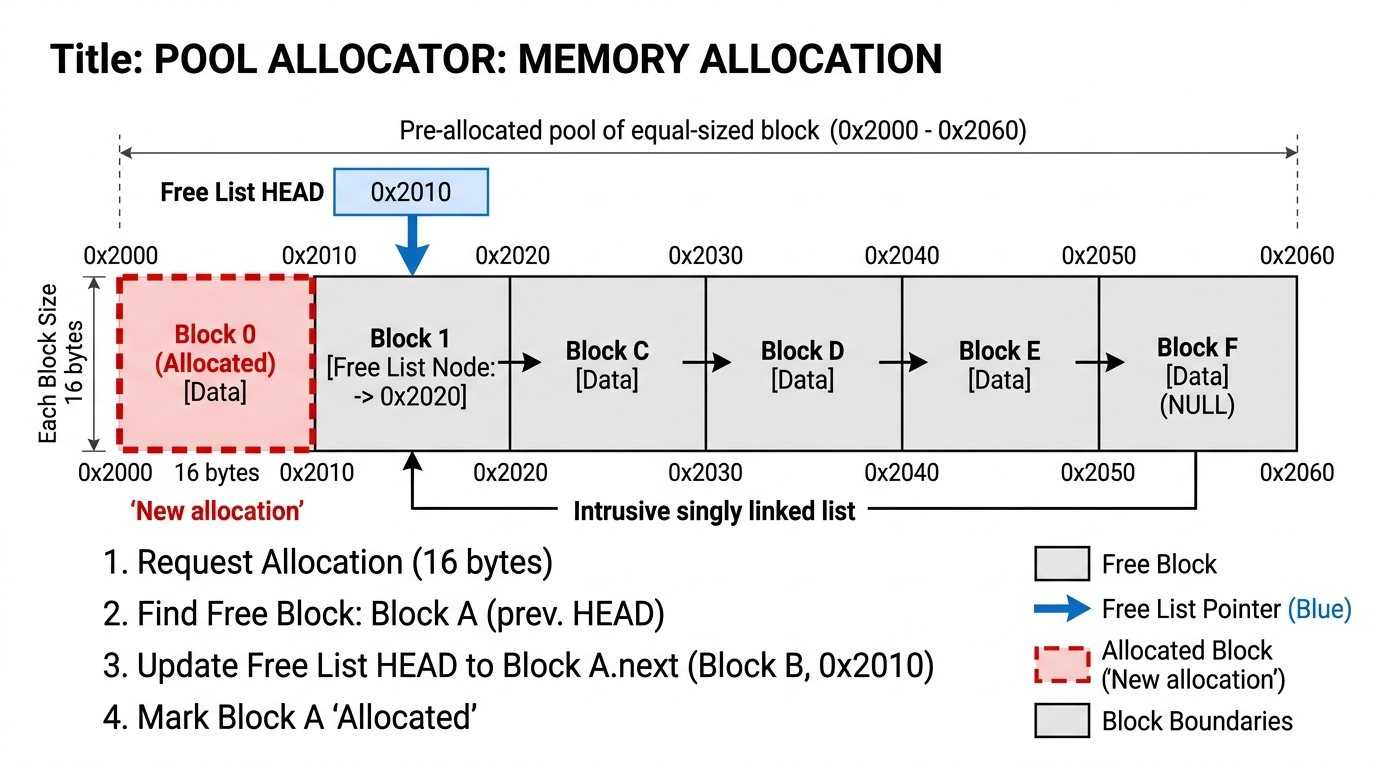
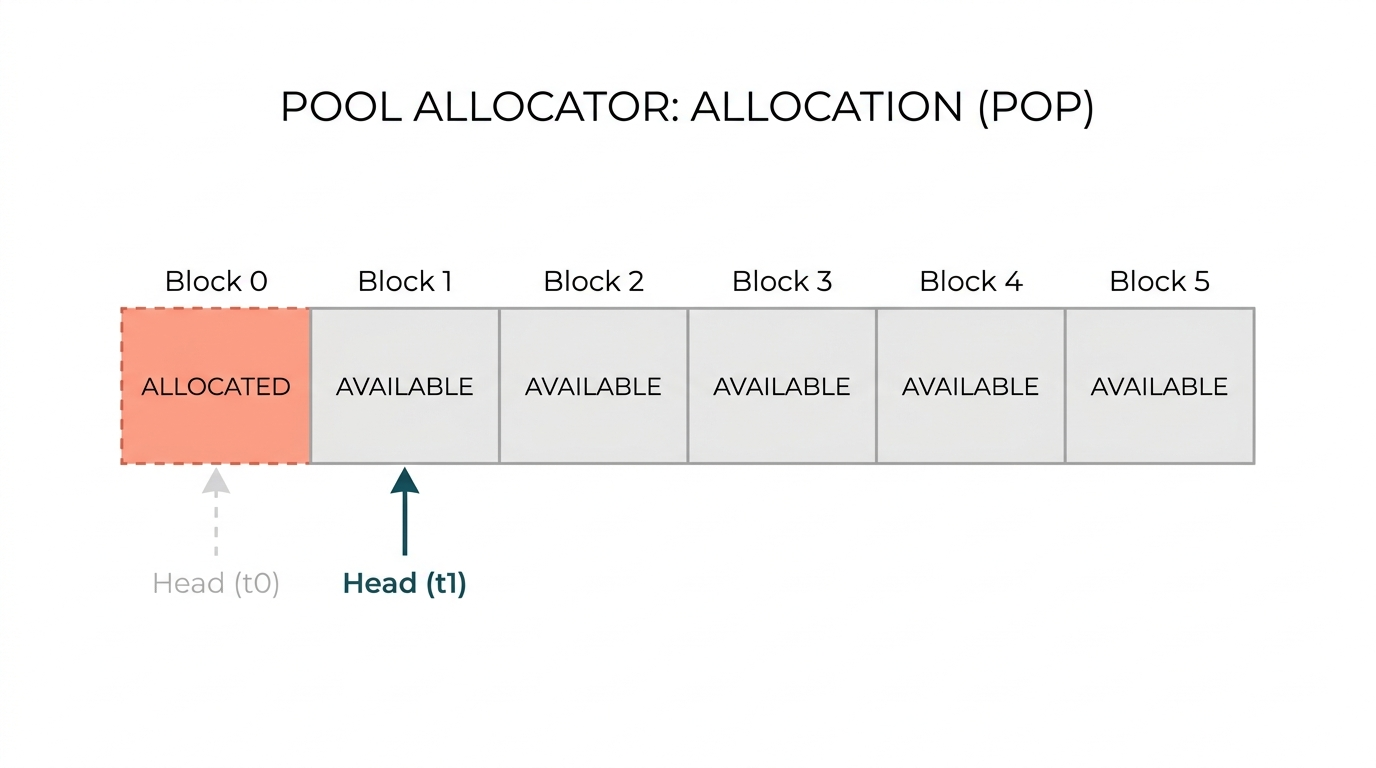
docs: streamline README explanations and update diagrams with minimalist aesthetic

diff --git a/README.md b/README.md
@@ -12,192 +12,169 @@
 &nbsp;&nbsp;&nbsp;&nbsp;&nbsp;&nbsp;&nbsp;&nbsp;[Space complexity](#space-complexity)  <br/> 
 &nbsp;[Summary](#summary)  <br/> 
 &nbsp;[Last thoughts](#last-thoughts)  <br/> 
-# Introduction
-When applications need more memory this can be allocated in the heap (rather than in the stack) in _runtime_. This memory is called 'dynamic memory' because it can't be known at compile time and its need changes during the execution. Our programs can ask for dynamic memory usin 'malloc'. Malloc returns an address to a position in memory where we can store our data. Once we're done with that data, we can call 'free' to free the memory and let others processes use it.
+&nbsp;[Future work](#future-work)  <br/> 
 
-For this project I've implemented different ways to manage by ourselves dynamic memory in C++.This means that instead of using native calls like 'malloc' or 'free' we're going to use a custom memory allocator that will do this for us but in a more efficient way.
-The goal, then, is to understand how the most common allocators work, what they offer and compare them to see which one performs better.
+# Introduction
+Dynamic memory allocation on the heap via standard `malloc` and `free` is flexible but carries performance overhead. This project implements custom C++ memory allocators that manage pre-allocated memory arenas to achieve faster, more predictable allocations. The goal is to understand how common allocators work, what trade-offs they offer, and compare their performance.
 
 # Build instructions
 
-```c
-git clone https://github.com/Sudheendra18/memory-allocators.git
-cmake -S memory-allocator -B build 
+```bash
+git clone https://github.com/Sudheendra18/custom-memory-allocator.git
+cmake -S . -B build 
 cmake --build build
 ```
 
 # What's wrong with Malloc?
-* **General purpose**: Being a general purpose operation means that it must work in all cases (from 1byte to 1GB or more...). For this reason the implementation is not as efficient as it could be if the needs were more specific.
-* **Slow**: Sometimes, when allocating memory, malloc needs to change from user to kernel mode to get more memory from the system. When this happens, malloc turns out to be super slow!
+* **General purpose:** Designed to handle any allocation size (from 1 byte to gigabytes), leading to bookkeeping overhead and fragmentation.
+* **Slow syscalls:** When expanding the heap, `malloc` transitions between user and kernel mode (`brk`/`mmap`), which is slow and non-deterministic.
 
 # Custom allocators
-Because every program has specific needs, it makes no sense to use a general purpose allocator. We can choose the right allocator that works best for us. This way we can increase our **performance**.
-
-In general, custom allocators share some features:
-* **Low number of mallocs**: Any custom allocator tries to keep the number of mallocs low. To do that, they malloc _big chunks of memory_ and then, they manage this chunk internally to provide smaller allocations.
-* **Data structures**: Secondary data structures like _Linked Lists_, _Trees_, _Stacks_ to manage these big chunks of memory. Usually they are used to keep track of the allocated and/or free portions of memory to _speed up_ operations.
-* **Constraints**: Some allocators are very specific and have constraints over the data or operations that can be performed. This allows them to achieve a high performance but can only be used in some applications. 
+Because programs often have predictable allocation patterns, custom allocators achieve superior performance by pre-allocating large memory arenas:
+* **Fewer Mallocs:** Pre-allocate once to eliminate runtime system calls.
+* **Specialized Data Structures:** Use lightweight tracking structures (offsets, intrusive linked lists) tailored to specific workloads.
+* **Domain Constraints:** Imposing constraints (e.g., fixed sizes, LIFO order) enables fast $O(1)$ operations.
 
 ## Linear allocator
-This is the simplest kind of allocator. The idea is to keep a pointer at the first memory address of your memory chunk and move it every time an allocation is done. In this allocator, the internal fragmentation is kept to a minimum because all elements are sequentially (spatial locality) inserted and the only fragmentation between them is the alignment.
+The simplest allocator. Maintains an offset pointer at the beginning of the memory arena and increments it sequentially for each allocation.
 
 ### Data structure
-This allocator only requires a pointer (or an offset) to tell us the position of the last allocation. It doesn't require any extra information or data structure.
+Requires only an offset pointer to track the current allocation boundary. No per-allocation metadata or headers are needed.
 
 ![Data structure of a Linear Allocator](docs/images/linear1.png)
 
 _Complexity: **O(1)**_
 
 ### Allocate
-Simply move the pointer (or offset) forward.
+Simply moves the offset pointer forward by the requested allocation size.
 
 ![Allocating memory in a Linear Allocator](docs/images/linear2.png)
 
 _Complexity: **O(1)**_
 
 ### Free
-Due to its simplicity, this allocator doesn't allow specific positions of memory to be freed. Usually, all memory is freed together.
+Individual allocations cannot be freed. The entire memory arena is reset all at once in $O(1)$.
+
+---
 
 ## Stack allocator
-This is a smart evolution of the Linear Allocator. The idea is to manage the memory as a Stack. So, as before, we keep a pointer to the current memory address and we move it forward for every allocation. However, we also can move it backwards when a free operation is done. As before, we keep the spatial locality principle and the fragmentation is still very low.
+A LIFO (Last-In, First-Out) allocator. Similar to the Linear Allocator, but allows allocations to be rolled back in reverse order.
 
 ### Data structure
-The allocator only needs a pointer (or offset) to keep track of the current top of the stack. Rollback points are stored outside the managed block, so allocations do not need a per-allocation header in the returned memory. This avoids wasting padding space and keeps the user-facing memory contiguous.
+Maintains an offset pointer tracking the top of the stack. Each allocation is preceded by a small header containing block size and padding metadata.
 
 ![Data structure of a Stack Allocator](docs/images/stack1.png)
 
-_Complexity: **O(N*H) --> O(N)**_ where H is the Header size and N is the number of allocations
+_Complexity: **O(N)** space overhead for headers_
 
 ### Allocate
-Simply move the pointer (or offset) forward and place a header right before the memory block indicating its size.
+Advances the offset pointer forward and stores an allocation header right before the returned memory block.
 
 ![Allocating memory in a Stack Allocator](docs/images/stack2.png)
 
 _Complexity: **O(1)**_
 
 ### Free
-Free is a LIFO rollback. The allocator restores the last saved offset and does not need to inspect any header stored in the allocation itself.
+LIFO rollback. Reads the block header and restores the offset pointer back to the previous allocation boundary.
 
 ![Freeing memory in a Stack Allocator](docs/images/stack3.png)
 
 _Complexity: **O(1)**_
 
+---
+
 ## Pool allocator
-A Pool allocator is quite different from the previous ones. It splits the big memory chunk in smaller chunks of the same size and keeps track of which of them are free. When an allocation is requested it returns the free chunk size. When a freed is done, it just stores it to be used in the next allocation. This way, allocations work super fast and the fragmentation is still very low.
+Splits a memory arena into equal, fixed-size chunks. It offers fast allocations and deallocations with zero internal fragmentation for uniform objects.
 
 ![Splitting scheme in a Pool Allocator](docs/images/pool1.png)
 
 ### Data structure
-To keep track of the free blocks of memory, the Pool allocator uses a Linked List that links the address of each free memory block. 
+Tracks free blocks using a singly linked list. To eliminate extra memory overhead, this list is **intrusive**—the `NEXT` pointers are stored directly inside the unused memory chunks themselves.
 
 ![Linked List used in a Pool Allocator](docs/images/pool2.png)
-
-To reduce the space needed, this **Linked List is stored in the same free blocks** (smart right?). However, this set the constraint that the data chunks must be at least as big as our nodes in the Linked List (so that, we can store the Linked List in the free memory blocks).
-
 ![In memory Linked List used in a Pool Allocator](docs/images/pool3.png)
 
-_Complexity: **O(1)**_ 
+_Constraint: Chunk size must be at least as large as a pointer (`sizeof(void*)`)._  
+_Complexity: **O(1)**_
 
 ### Allocate
-An allocation simply means to take (pop) the first free block of the Linked List.
+Pops the first free block from the head of the linked list.
 
 ![Allocation in a Pool Allocator](docs/images/pool4.png)
-
-The linked list doesn't have to be sorted. Its order its determined by the how the allocations and free are done.
-
 ![Random State of a Linked List in a Pool Allocator](docs/images/pool5.png)
 
 _Complexity: **O(1)**_
 
 ### Free
-Free means to add (push) the freed element as the first element in the Linked List.
+Pushes the freed block back onto the head of the linked list.
 
 _Complexity: **O(1)**_
 
-## Free list allocator
+---
 
-This is a general purpose allocator that, contrary to the others, doesn't impose any restriction. It allows allocations and deallocations to be done in any order. For this reason, its performance is not as good as its predecessors. Depending on the data structure used to speed up this allocator, there are two common implementations: one that uses a Linked List and one that uses a Red black tree.
+## Free list allocator
+A general-purpose allocator that imposes no restrictions on allocation order, deallocation order, or block sizes.
 
 ### Linked list data structure
-As the name says, this implementation uses a Linked List to store, in a sorted manner, the start address of each free contiguous block in memory and its size.
-When an allocation is requested, it searches in the linked list for a block where the data can fit. Then it removes the element from the linked list and places an allocation header (used on deallocations) right before the data (as we did in the Stack allocator).
-On deallocations, we get back the allocation header to know the size of the block that we are going to free. Once we free it we insert it into the sorted linked list and we try to merge contiguous memory blocks together creating bigger blocks.
-
-*Notes: My implementation has some constraints on the size and alignment of the data that can be allocated using **this** allocator. For example, the minimum size that can be allocated should be equals or bigger than the size required of a Free Node. Otherwise, we would be wasting more space in meta-data than in real data (Something similar happens with the alignment) These constraints are related with my implementation. A better implementation would probably handle these cases. I decided not to do so because performance would be drastically affected. In these cases its probably better to use a different allocator.*
+Maintains an address-sorted linked list of free memory blocks and their sizes. Each allocated block is prefixed with an allocation header to track size and alignment.
 
 ![Data structure in a Free list Allocator](docs/images/freelist_seq1.png)
 
-_Complexity: **O(N*HF + M*HA)--> O(M)**_ where N is the number of free blocks, HF is the size of the header of free blocks, M the number of allocated blocks and HA the size of the header of allocated blocks
-
+_Complexity: **O(M)** space overhead where M is the number of allocated blocks._
 
 ### Linked list Allocate
- When an allocation is requested, we look for a block in memory where our data can fit. This means that we have to iterate our linked list until we find a block that has a size equal or bigger than the size requested (it can store this data plus the allocation header) and remove it from the linked list. This would be a **first-fit** allocation because it stops when it finds the first block where the memory fits. There is another type of search called **best-fit** that looks for the free memory block of smaller size that can handle our data. The latter operation may take more time because is always iterating through all elements but it can reduce fragmentation.
+Searches the free list using **First-Fit** (first block that fits) or **Best-Fit** (smallest block that fits, minimizing fragmentation). The selected block is split, returning the requested size and keeping the remainder in the free list.
 
 ![Allocating in a Free list Allocator](docs/images/freelist_seq2.png)
 
-_Complexity: **O(N)**_ where N is the number of free blocks 
+_Complexity: **O(N)** where N is the number of free blocks._
 
 ### Linked list Free
-First of all we get back the information about the allocation from the header. Then, we iterate the Linked List to intert the free block in the right position (because is sorted by address). Once we've inserted it, we merge contiguous blocks. We can merge in _O(1) because our Linked List is sorted. We only need to look at the previous and next elements in the linked list to see if we can merge this contiguous blocks. This operation of merging contiguous memory blocks to create bigger blocks is called _Coalescence_
-If we used instead a Sorted Linked List of free and allocated blocks, the complexity would be *O(1)* but the allocation compleixity would be *O(N) where N is the number of free and allocated blocks and space complexity would be much higher. When we free a memory block we also look at the previous and next blocks to see if we can merge them into one bigger block. 
+Reads the block header, inserts the block back into the address-sorted free list, and merges adjacent contiguous free blocks (**Coalescence**) in $O(1)$ to prevent fragmentation.
 
 ![Freeing in a Free list Allocator](docs/images/freelist_seq3.png)
 
-_Complexity: **O(N)**_ where N is the number of free blocks
+_Complexity: **O(N)** search + **O(1)** merge._
 
 ### Red black tree data structure
-The purpose of using a Red black tree is to speed up allocations and deallocations. In the Linked List (or sequential) implementation every time an operation was made we needed to iterate the Linked List. This was O(N) in all cases.
+Using a Red-Black Tree keyed by size reduces search complexity from $O(N)$ to $O(\log N)$ while enabling fast Best-Fit allocation. An auxiliary doubly linked list maintains address order for $O(1)$ coalescence.
 
-Using Red Black trees we can reduce its complexity to O(log N) while keeping space complexity quite low because the tree data is stored inside the free memory blocks. In addition, this structure allows a **best-fit** algorithm to be used, reducing the fragmentation and keeping performance. However, an additional sorted Doubly Linked list is required to store allocated and free elements in order to be able to do coalescence operations in O(1).
-This implementation is the most common and most used in real systems because it offers high flexibility while keeping performance very high.
+---
 
 # Benchmarks
-Now its time to make sure that all the effort in designing and implementing custom memory allocators is worth. 
-I've made several benchmarks with different block sizes, number of operations, random order, etc. The time benchmark measures the time execution that takes initializing the allocator 'Init()' (malloc big chunk, setup additional data structures...) and until the last operation (allocation or free) is performed.
-
-Here I'm only showing what I believe is relevant for the goal of this project.
+Benchmarked with varying operation counts using a fixed block size of 4,096 bytes.
 
 ## Time complexity
-* **Malloc** is without doubt the **worst allocator**.Due to its general and flexible use. _**O(n)**_
-* **Free list allocator** is **A much better choice than malloc** as a general purpose allocator.It uses Linked List to speed up allocations/free. It's about three times better than malloc _**O(n)**_
-
-The next allocator are even better BUT they are no longer general purpose allocators. They **impose restrictions** in how we can use them:
-* **Pool allocator** forces us to always allocate the same size but then we can allocate and deallocate in any order. The complexity of this one is slightly better than the free list allocator, wait what? The complexity of the pool allocator was supposed to be constant not linear! And that's true. What its happening here is that the initialization of the additional data structure (the linked list) is _**O(n)**_. It has to create all memory chunks in then linked them in the linked list. This operation is hiding the truly complexity of the allocation and free operations that is _**O(1)**_.  So, take into account to initialize the Pool allocator (and all the allocators in general) before to avoid this kind of behaviors.
-* **Stack allocator** can allocate any size, but deallocations must be done in a LIFO fashion with a _**O(1)**_ complexity. In the chart the complexity is not completely constant due to init function that has to allocate the first big chunk of memory, similarly as before in the pool allocator.
-* **Linear allocator** is the simplest and the best performant allocator with a _**O(1)**_ complexity but its also the most restrictive because single free operations are not allowed. As with the stack, the complexity doesn't look completely constant due to the init function.
+* **Malloc:** Slowest allocator ($O(N)$) due to kernel transitions and general-purpose bookkeeping.
+* **Free List:** ~3x faster than malloc while remaining general-purpose ($O(N)$).
+* **Pool, Stack, Linear:** Exhibit near-instantaneous runtime. (Initial slopes reflect one-time `Init()` arena setup).
 
 ![Time complexity of different allocators](docs/images/operations_over_time.png)
 
-In the next chart we can see that if we don't include the Init() function in the benchmark, the overall execution time is reduced and as a consequence we can effectively see that the Linear, Stack and Pool allocators are constant while malloc and free list are clearly linear. The free list implementation using black tree can reduce the complexity to _**O(log n)**_ and therefore its position in the chart would be between the pool allocator and the free list.
+Excluding the one-time `Init()` setup clearly demonstrates true constant $O(1)$ runtime for Linear, Stack, and Pool allocators:
 
-![Time complexity of different allocators](docs/images/operations_over_time_no_init.png)
-
-_Note: The time complexity (in general) scales following a linear fashion regarding the size of the allocation request.
+![Time complexity of different allocators without Init](docs/images/operations_over_time_no_init.png)
 
 ## Space complexity
-As we can see, even that the space complexity for each allocator is slightly different(due to constants), in the end, all of them have the same space complexity **O(N)**. It is very clear, then, why when denoting big O, constants can be ignored: because its weight in the overall equation is very low when N grows.
+All allocators scale linearly ($O(N)$) with total requested memory, as metadata headers represent a negligible fraction of large allocations.
 
 ![Space complexity of different allocators](docs/images/operations_over_space.png)
 
-# Summary
-This is a brief summary describing when you should use each allocator. From more restrictive and efficient allocators to less efficient and general.
+---
 
-* **Linear allocator**. If your data does not follows any specific structure. However, there's a common behavior in time: all data "expires" after a certain time and then is no longer useful and thus can be freed. Think about games for example, you can allocate data in one frame using a this allocator and free all data at the start of the next frame.  
-* **Stack allocator**. The same as the Linear allocator but think if it useful to free elements in a LIFO fashion.
-* **Pool allocator**. Your data has definitely a structure. All elements of your data have the same size. This is your choice, fast and no fragmentation.
-* **Buddy allocator** (_Not implemented here_). Your data is organized in exponential sizes power-of-two (1,2,4,8,16,32...). This allocator performs extremely well when data is structure in that way, being fast and wasting little space.
-* **Free list allocator**. No structure or common behavior. This allocator allows you to allocate and free memory as you wish. This is a general purpose allocator that works much better than malloc, but is not as good as the previous allocators, given its flexibility to work in all situations.
+# Summary
+* **Linear Allocator:** Best when all data has a common lifetime and can be freed together (e.g., per-frame game data).
+* **Stack Allocator:** Best for scoped or nested allocations freed in reverse LIFO order.
+* **Pool Allocator:** Best for high-frequency objects of uniform size (e.g., game entities, particles).
+* **Free List Allocator:** General-purpose allocator for arbitrary sizes and lifetimes where `malloc` is too slow.
 
 # Last thoughts
-* Avoid dynamic memory as much as possible. Its behavior is unexpected and a source of problems
-* If you are worried about performance and your application uses dynamic memory, think about using a custom allocator instead of malloc
-* Try to understand your data and its behavior to choose the right allocator for you. Specific allocators (that impose restrictions on how we can structure/use our data) are far more better than the generic ones. We saw a huge gap between the specific purpose allocator: **Linear, Stack and Pool** and the general purpose: **Free list and Malloc**
-* Always choose a less restrictive (or more general) allocator if unsure. If you later see that your data is structured you can always change to use a more restrictive one.
+* Avoid dynamic memory allocations during performance-critical loops whenever possible.
+* Specific-purpose allocators (**Linear, Stack, Pool**) drastically outperform general-purpose ones (**Free List, Malloc**).
+* Choose the most constrained allocator that fits your data access patterns.
 
 # Future work
-* Implement every memory allocator assuming that the alignment is always 8 bytes and thus everything is always align (we no longer need headers).
-* Implement a Free list allocator using Red Black Trees to improve performance from O(N) to O(log N)
-* Implement a Buddy allocator
-* Implement a Slab allocator
-* Benchmark internal fragmentation
-* Benchmark spatial location (cache misses)
+* Implement 8-byte alignment optimization to eliminate headers.
+* Implement a Red-Black Tree Free List allocator ($O(\log N)$).
+* Implement Buddy and Slab allocators.
+* Benchmark cache misses and spatial locality.
